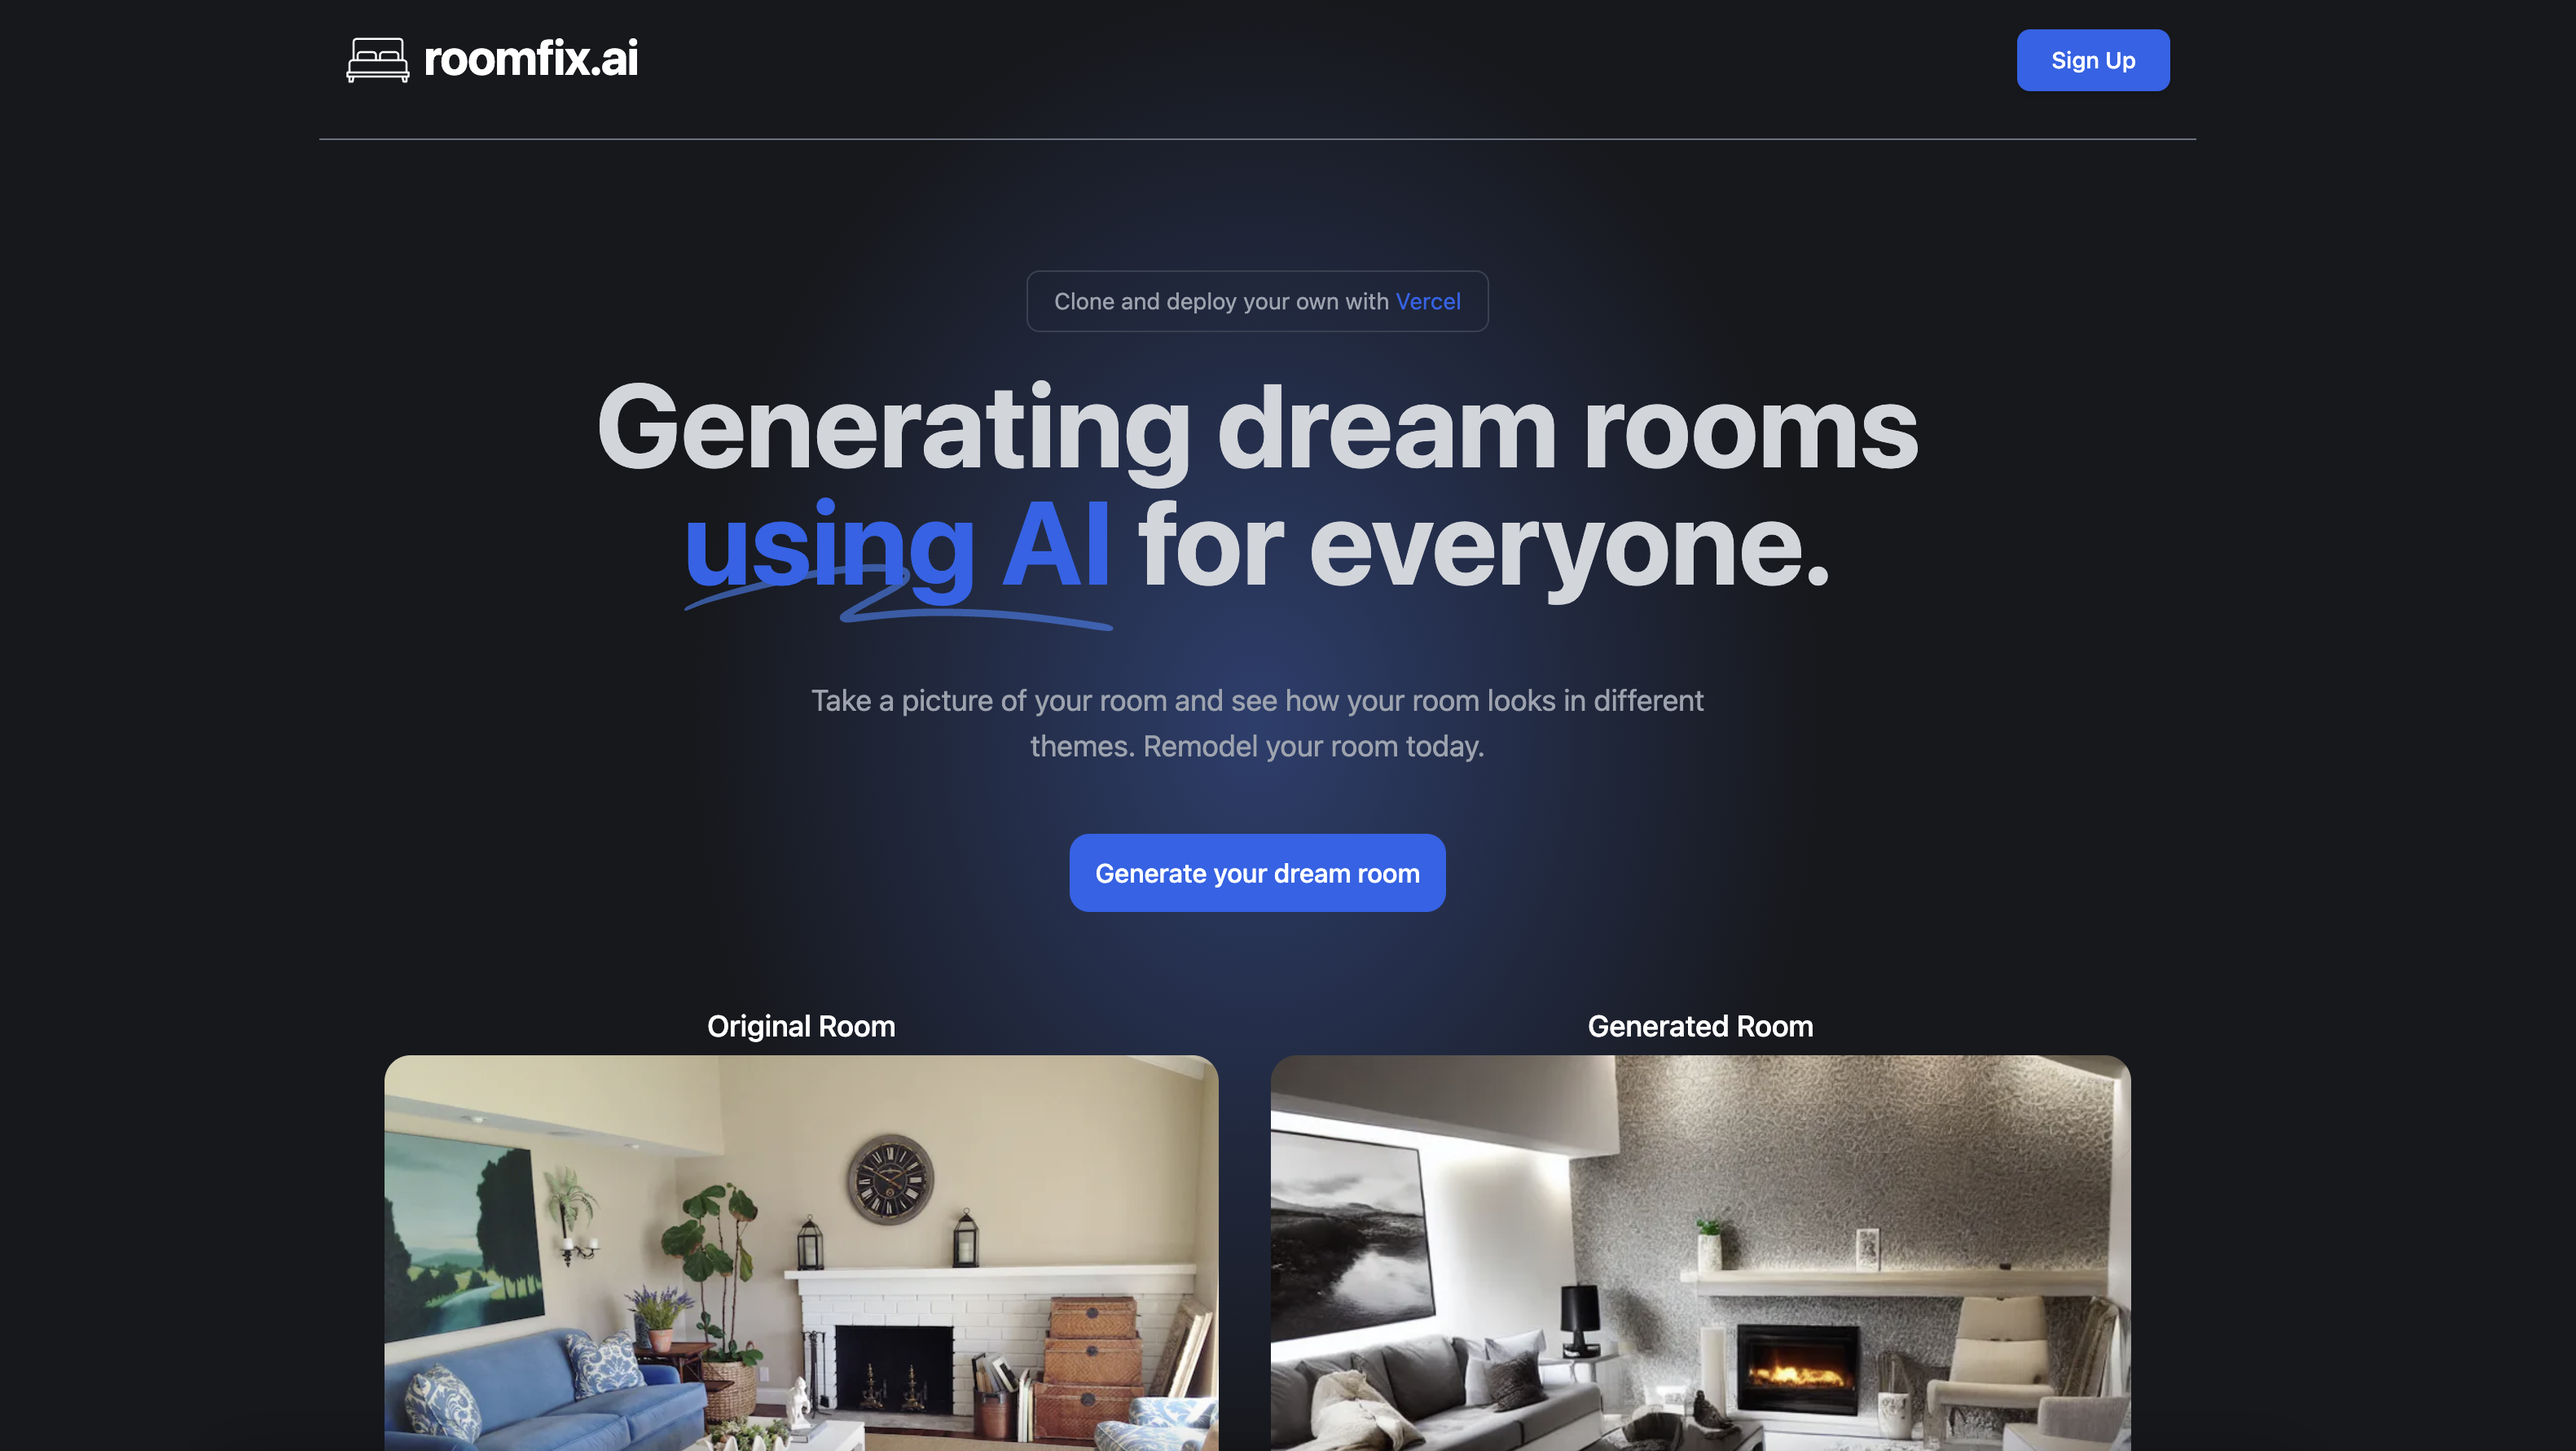
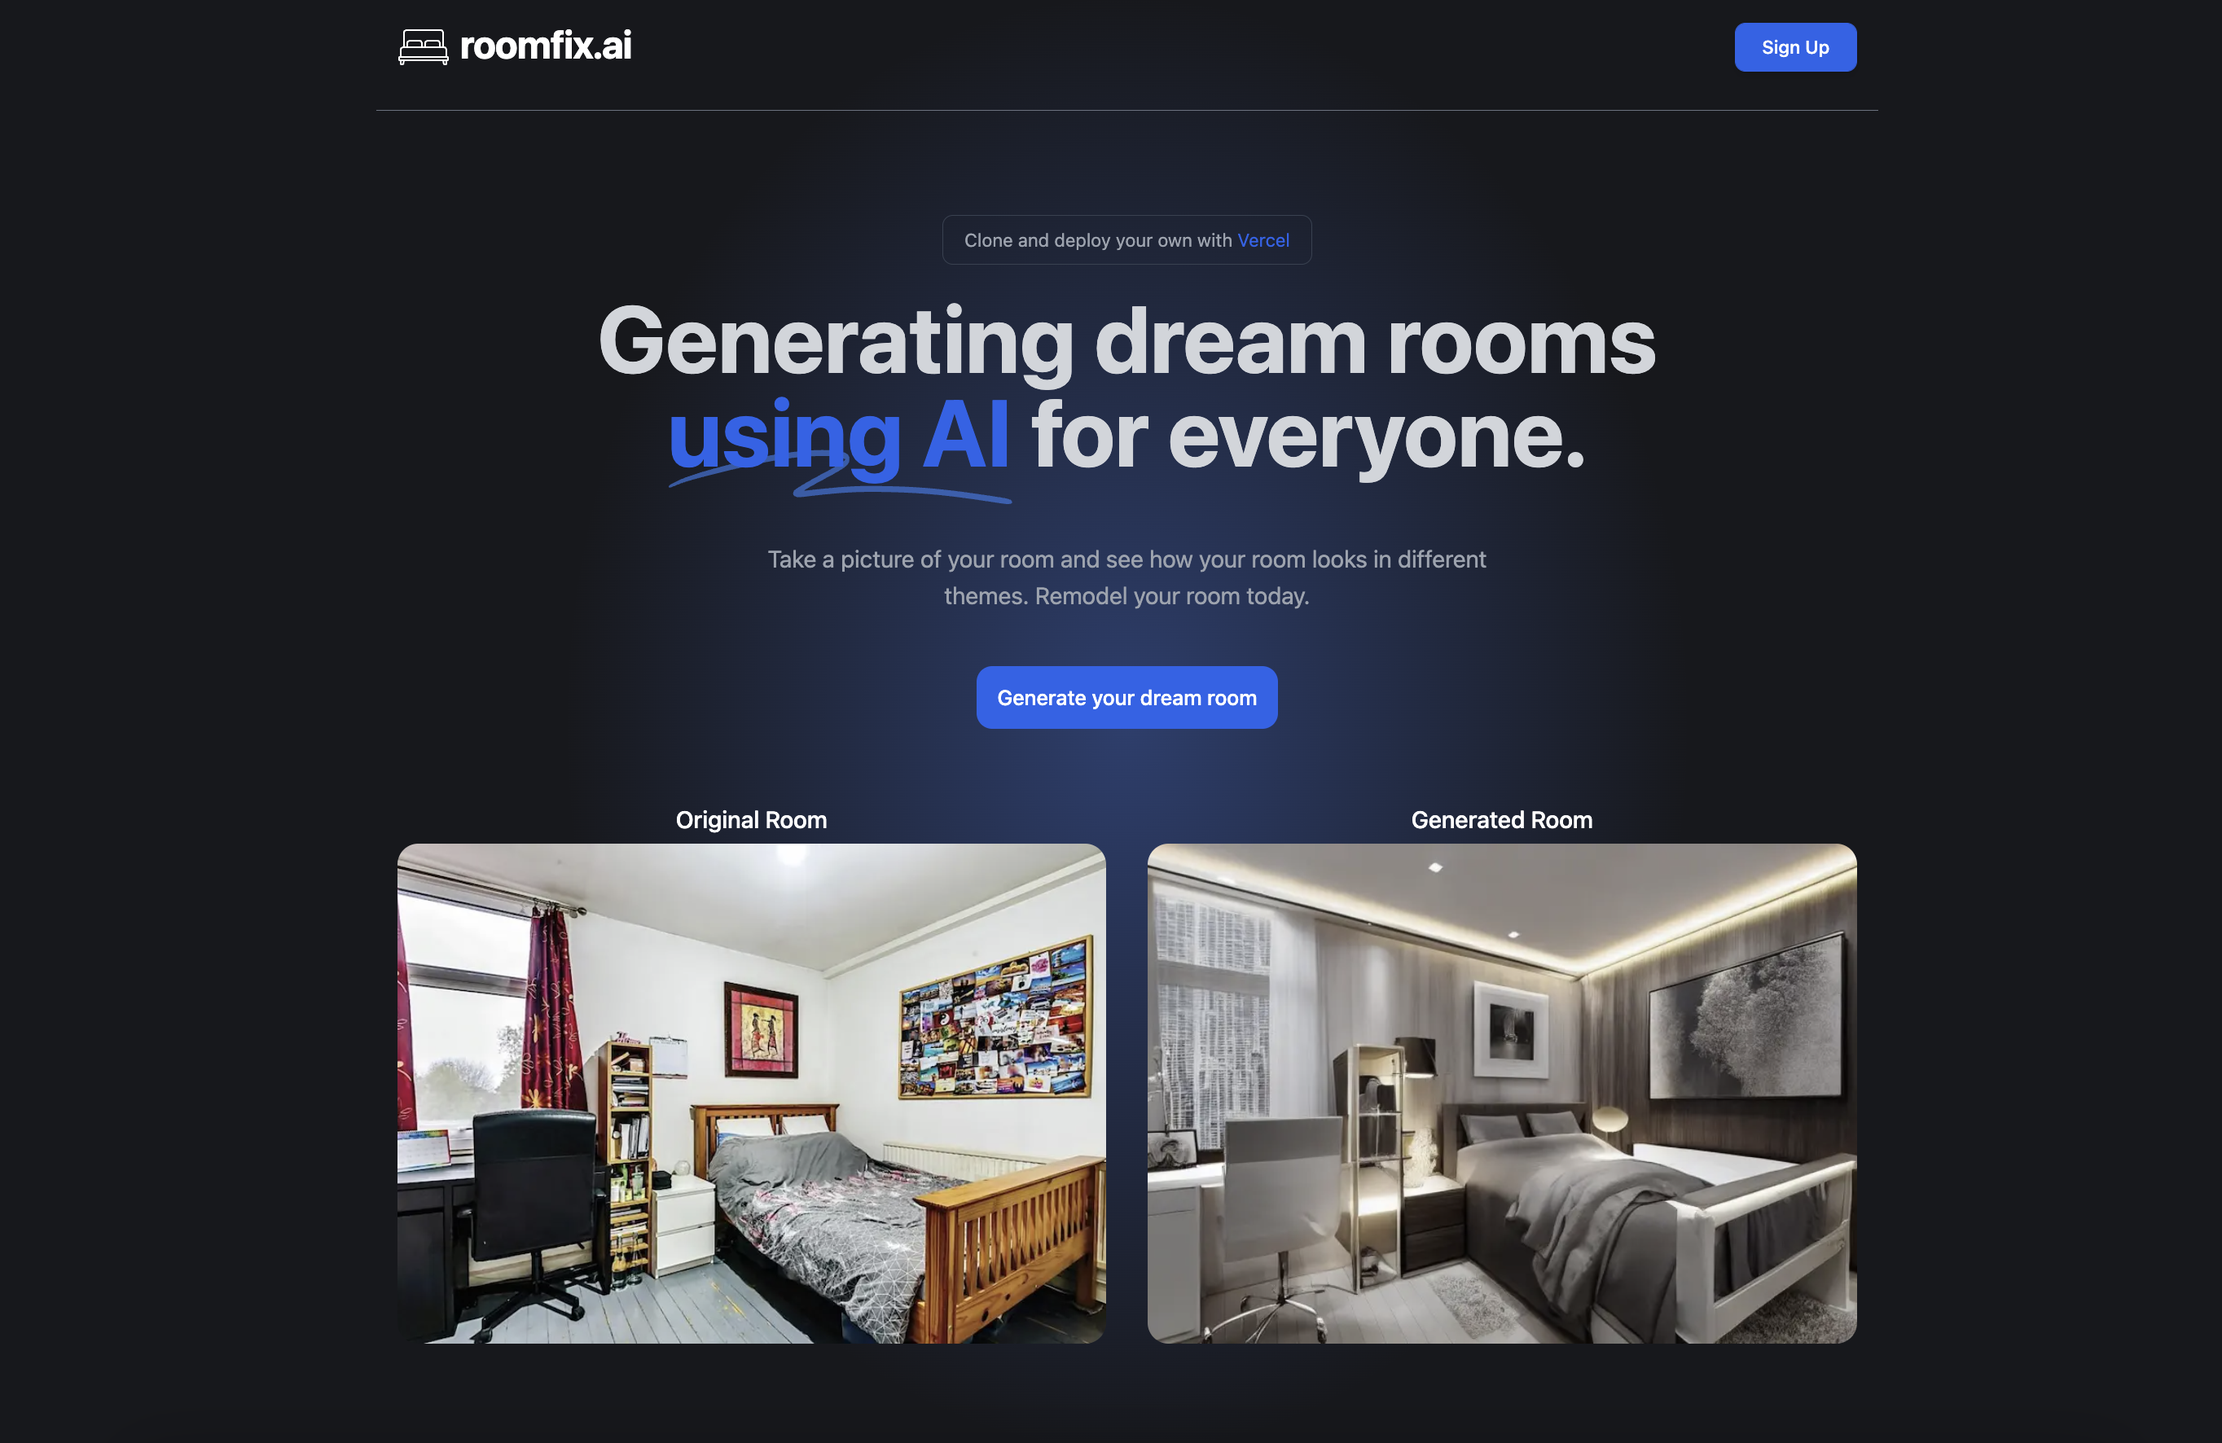
images

diff --git a/pages/index.tsx b/pages/index.tsx
@@ -51,8 +51,8 @@ const Home: NextPage = () => {
               <div>
                 <h3 className="mb-1 font-medium text-lg">Original Room</h3>
                 <Image
-                  alt="Original photo of a room with roomGPT.io"
-                  src="/1.jpg"
+                  alt="Original photo of a room with roomfix.ai"
+                  src="/bedroom_2.jpeg"
                   className="w-full object-cover h-96 rounded-2xl"
                   width={400}
                   height={400}
@@ -61,10 +61,10 @@ const Home: NextPage = () => {
               <div className="sm:mt-0 mt-8">
                 <h3 className="mb-1 font-medium text-lg">Generated Room</h3>
                 <Image
-                  alt="Generated photo of a room with roomGPT.io"
+                  alt="Generated photo of a room with roomfix.ai"
                   width={400}
                   height={400}
-                  src="/1-new.jpg"
+                  src="/bedroom_2-new.jpeg"
                   className="w-full object-cover h-96 rounded-2xl sm:mt-0 mt-2"
                 />
               </div>
